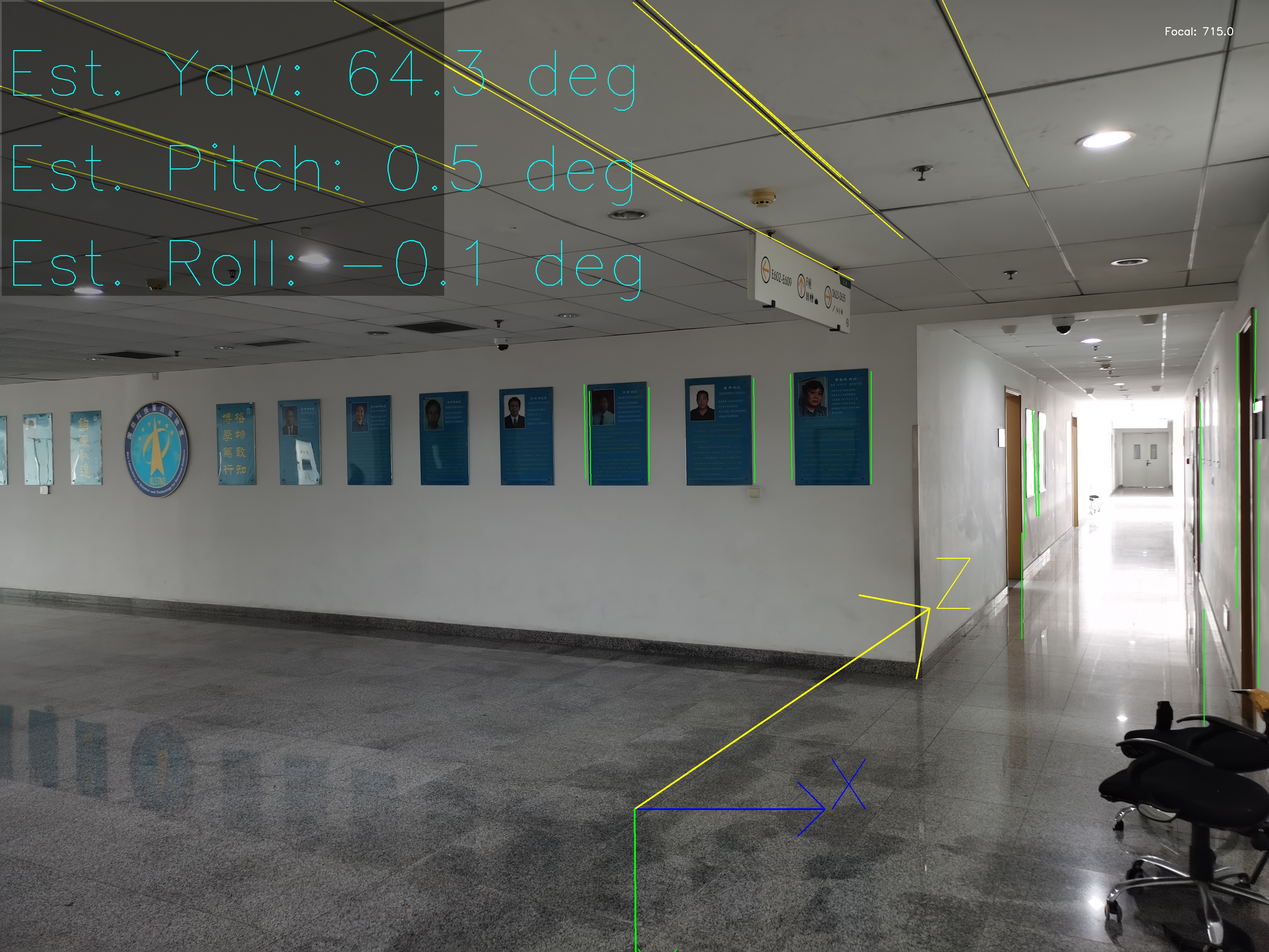
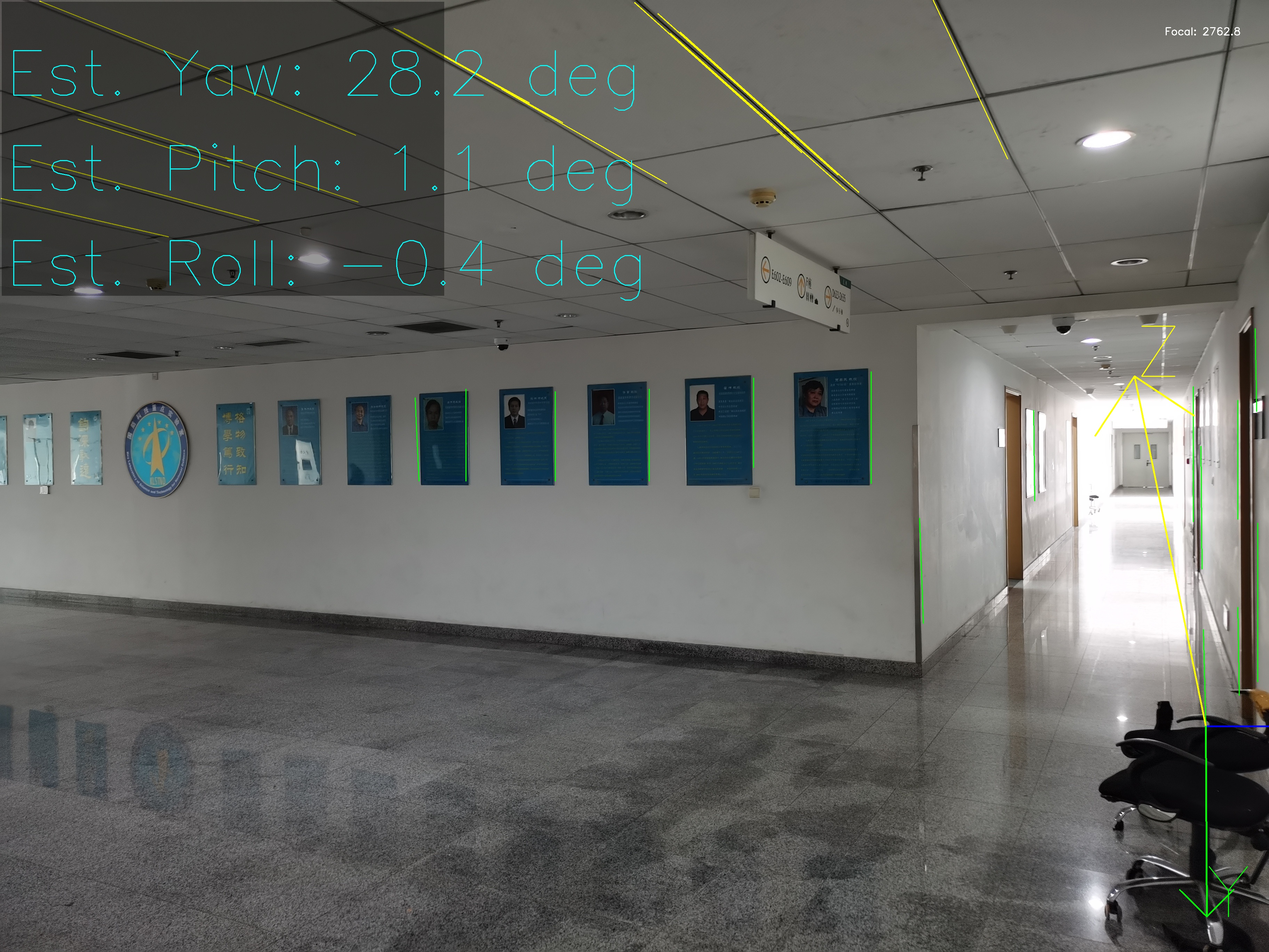
feat: automatically place physical origin at the wall-floor corner by detecting lowest vertical inliers

diff --git a/src/vp_calib/engine.py b/src/vp_calib/engine.py
@@ -182,8 +182,24 @@ def draw_axes_on_image(image: np.ndarray, vps: List[np.ndarray], origin_px: Unio
     return output_img
 
 def estimate_origin_from_inliers(image_shape: Tuple[int, ...], inlier_masks: List[np.ndarray], lines: np.ndarray) -> List[int]:
-    h, w = image_shape[:2]; return [w // 2, int(h * 0.85)]
-
+    h, w = image_shape[:2]
+    try:
+        if len(inlier_masks) >= 3 and inlier_masks[2] is not None:
+            iy_mask = inlier_masks[2]
+            v_lines = lines[iy_mask]
+            if len(v_lines) > 0:
+                # Find the lowest point of the vertical lines (wall corner at the floor)
+                max_y = -1
+                best_pt = [w // 2, int(h * 0.85)]
+                for line in v_lines:
+                    for pt in line:
+                        if pt[1] > max_y:
+                            max_y = pt[1]
+                            best_pt = pt.tolist()
+                return [int(best_pt[0]), int(best_pt[1])]
+    except Exception:
+        pass
+    return [w // 2, int(h * 0.85)]
 def determine_focal_length(vps: List[np.ndarray], image: np.ndarray) -> List[float]:
     default_focal = 715.0
     if len(vps) >= 3 and vps[1] is not None and vps[2] is not None:
